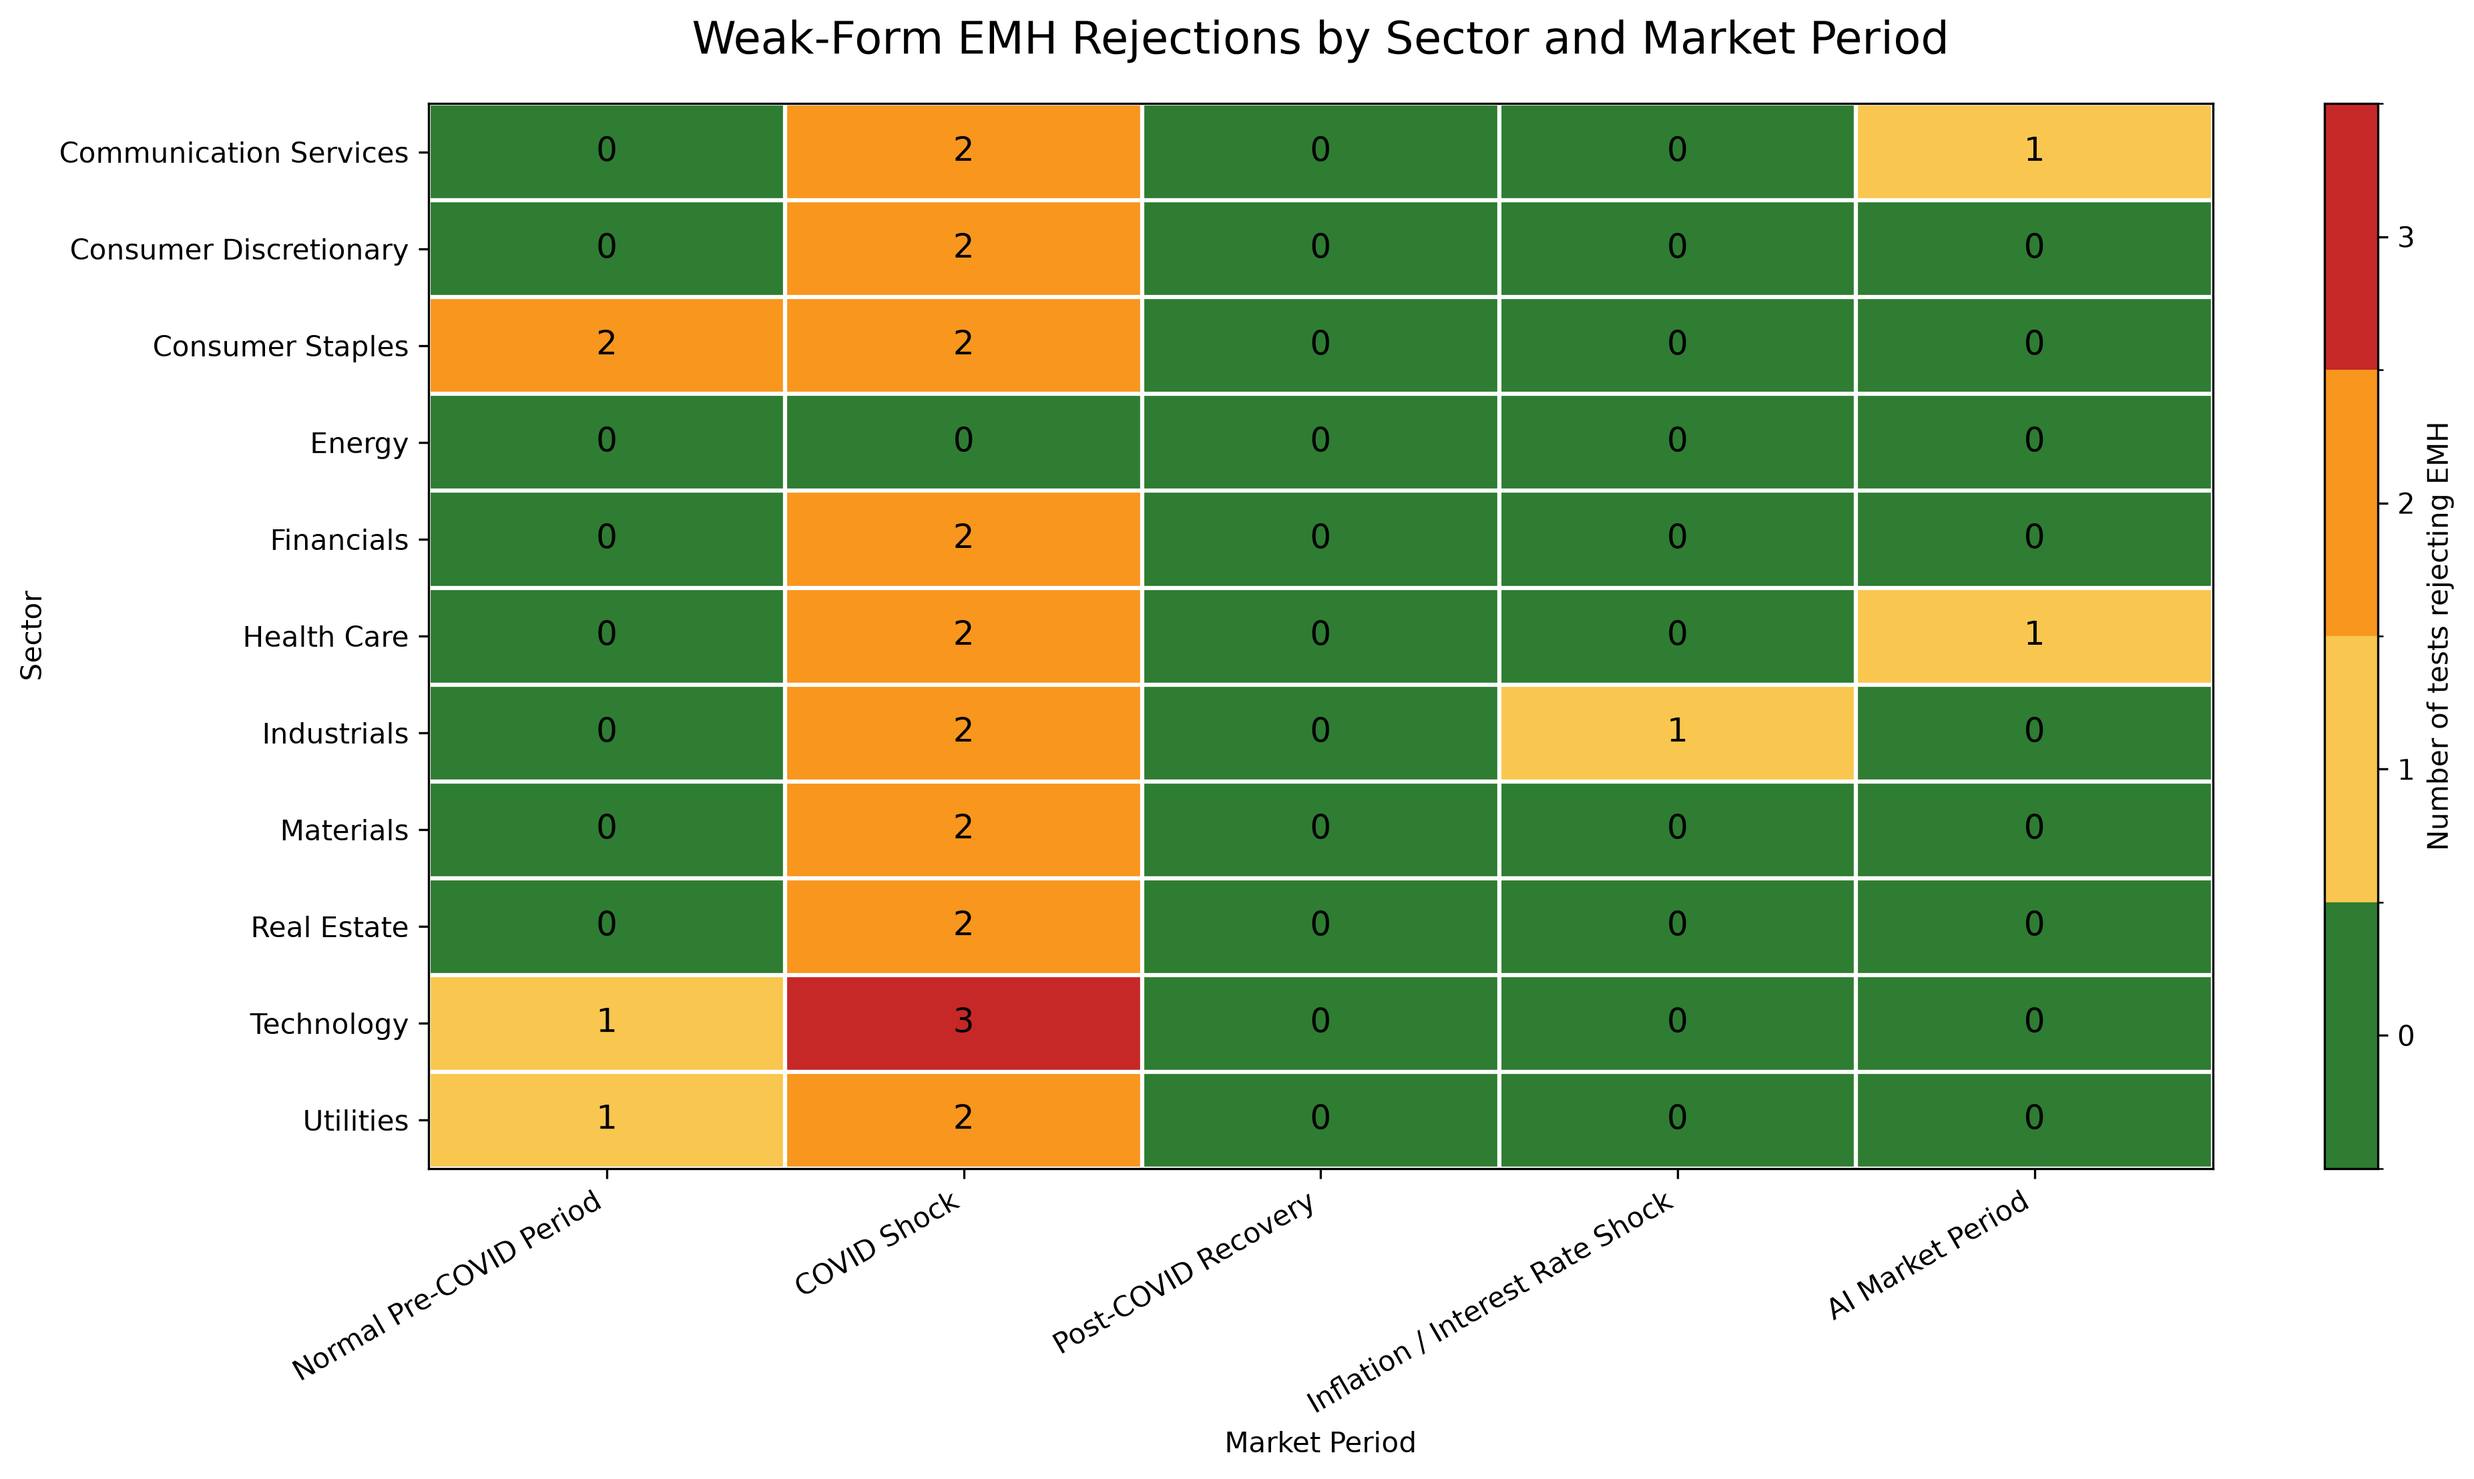
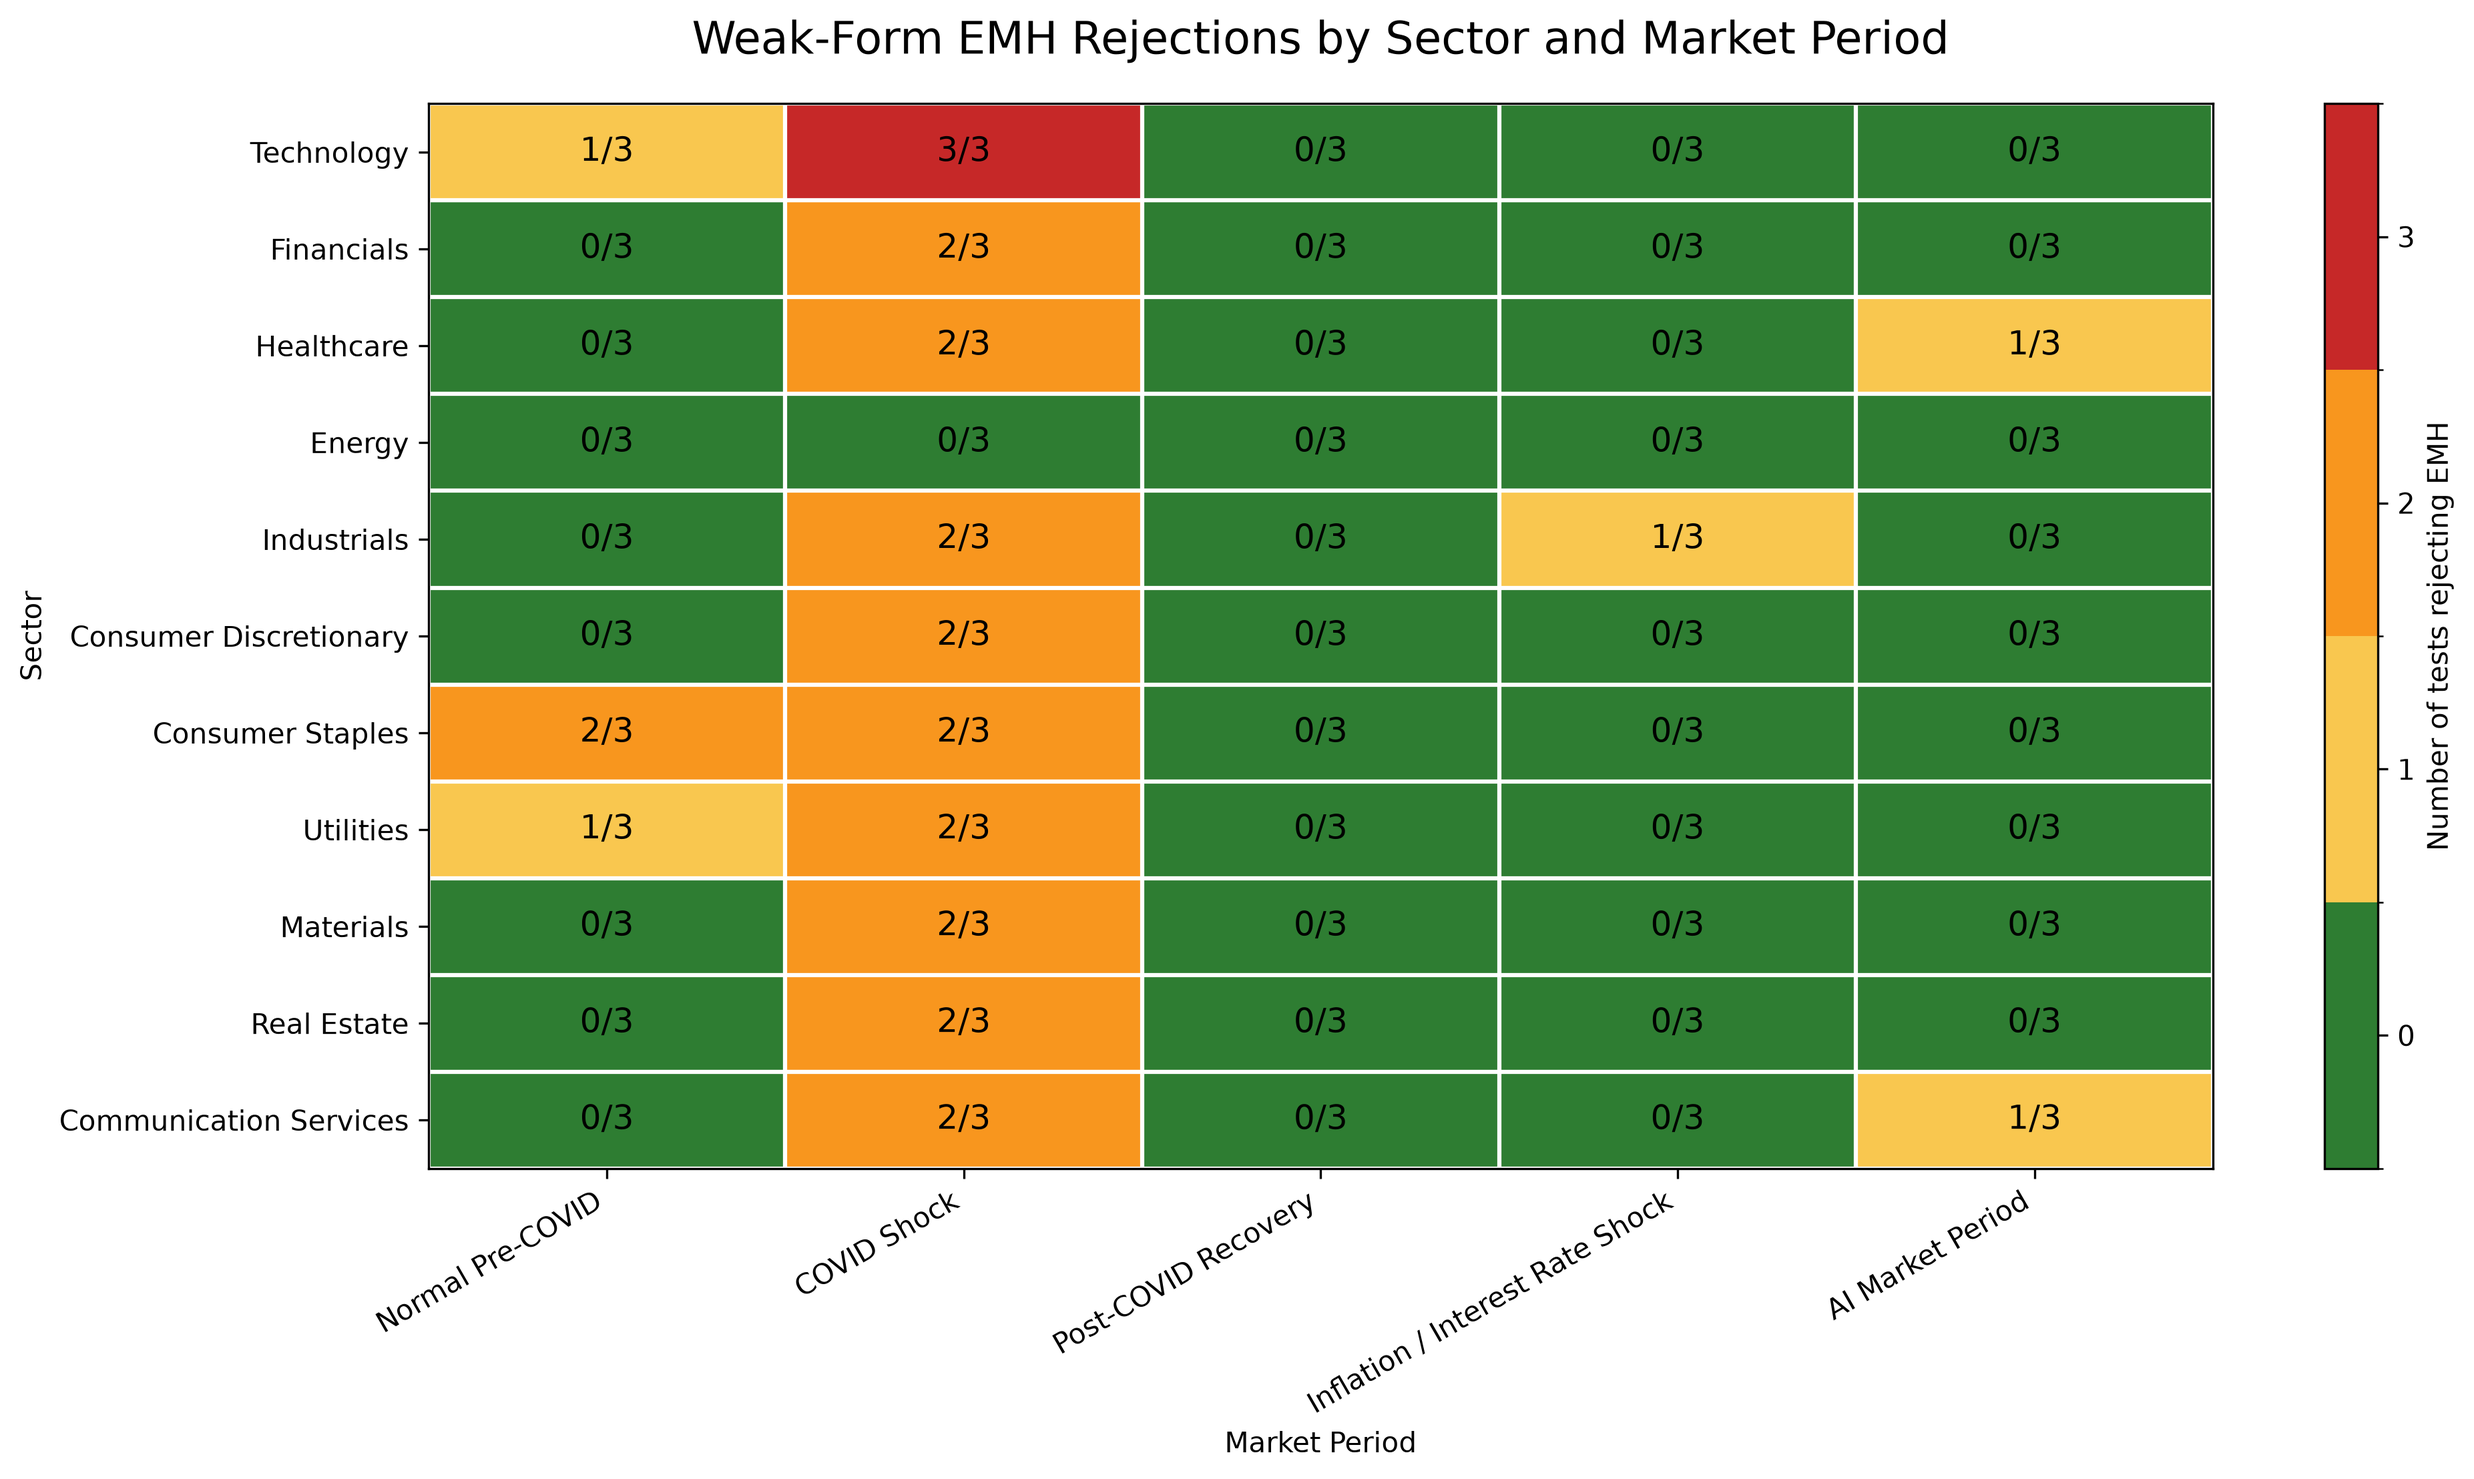
Add generated sector EMH outputs [skip ci]

diff --git a/outputs/sector_emh_detailed_results.md b/outputs/sector_emh_detailed_results.md
@@ -1,57 +1,57 @@
 | Sector | ETF | Market Period | Variance Ratio Result | Autocorrelation Result | Runs Test Result | Number of Tests Rejecting EMH |
 | --- | --- | --- | --- | --- | --- | --- |
-| Communication Services | XLC | Normal Pre-COVID Period | Fails to Reject EMH | Fails to Reject EMH | Fails to Reject EMH | 0 |
-| Communication Services | XLC | COVID Shock | Rejects EMH | Rejects EMH | Fails to Reject EMH | 2 |
-| Communication Services | XLC | Post-COVID Recovery | Fails to Reject EMH | Fails to Reject EMH | Fails to Reject EMH | 0 |
-| Communication Services | XLC | Inflation / Interest Rate Shock | Fails to Reject EMH | Fails to Reject EMH | Fails to Reject EMH | 0 |
-| Communication Services | XLC | AI Market Period | Rejects EMH | Fails to Reject EMH | Fails to Reject EMH | 1 |
-| Consumer Discretionary | XLY | Normal Pre-COVID Period | Fails to Reject EMH | Fails to Reject EMH | Fails to Reject EMH | 0 |
-| Consumer Discretionary | XLY | COVID Shock | Rejects EMH | Rejects EMH | Fails to Reject EMH | 2 |
-| Consumer Discretionary | XLY | Post-COVID Recovery | Fails to Reject EMH | Fails to Reject EMH | Fails to Reject EMH | 0 |
-| Consumer Discretionary | XLY | Inflation / Interest Rate Shock | Fails to Reject EMH | Fails to Reject EMH | Fails to Reject EMH | 0 |
-| Consumer Discretionary | XLY | AI Market Period | Fails to Reject EMH | Fails to Reject EMH | Fails to Reject EMH | 0 |
-| Consumer Staples | XLP | Normal Pre-COVID Period | Rejects EMH | Rejects EMH | Fails to Reject EMH | 2 |
-| Consumer Staples | XLP | COVID Shock | Rejects EMH | Rejects EMH | Fails to Reject EMH | 2 |
-| Consumer Staples | XLP | Post-COVID Recovery | Fails to Reject EMH | Fails to Reject EMH | Fails to Reject EMH | 0 |
-| Consumer Staples | XLP | Inflation / Interest Rate Shock | Fails to Reject EMH | Fails to Reject EMH | Fails to Reject EMH | 0 |
-| Consumer Staples | XLP | AI Market Period | Fails to Reject EMH | Fails to Reject EMH | Fails to Reject EMH | 0 |
-| Energy | XLE | Normal Pre-COVID Period | Fails to Reject EMH | Fails to Reject EMH | Fails to Reject EMH | 0 |
-| Energy | XLE | COVID Shock | Fails to Reject EMH | Fails to Reject EMH | Fails to Reject EMH | 0 |
-| Energy | XLE | Post-COVID Recovery | Fails to Reject EMH | Fails to Reject EMH | Fails to Reject EMH | 0 |
-| Energy | XLE | Inflation / Interest Rate Shock | Fails to Reject EMH | Fails to Reject EMH | Fails to Reject EMH | 0 |
-| Energy | XLE | AI Market Period | Fails to Reject EMH | Fails to Reject EMH | Fails to Reject EMH | 0 |
-| Financials | XLF | Normal Pre-COVID Period | Fails to Reject EMH | Fails to Reject EMH | Fails to Reject EMH | 0 |
-| Financials | XLF | COVID Shock | Rejects EMH | Rejects EMH | Fails to Reject EMH | 2 |
-| Financials | XLF | Post-COVID Recovery | Fails to Reject EMH | Fails to Reject EMH | Fails to Reject EMH | 0 |
-| Financials | XLF | Inflation / Interest Rate Shock | Fails to Reject EMH | Fails to Reject EMH | Fails to Reject EMH | 0 |
-| Financials | XLF | AI Market Period | Fails to Reject EMH | Fails to Reject EMH | Fails to Reject EMH | 0 |
-| Health Care | XLV | Normal Pre-COVID Period | Fails to Reject EMH | Fails to Reject EMH | Fails to Reject EMH | 0 |
-| Health Care | XLV | COVID Shock | Rejects EMH | Rejects EMH | Fails to Reject EMH | 2 |
-| Health Care | XLV | Post-COVID Recovery | Fails to Reject EMH | Fails to Reject EMH | Fails to Reject EMH | 0 |
-| Health Care | XLV | Inflation / Interest Rate Shock | Fails to Reject EMH | Fails to Reject EMH | Fails to Reject EMH | 0 |
-| Health Care | XLV | AI Market Period | Fails to Reject EMH | Fails to Reject EMH | Rejects EMH | 1 |
-| Industrials | XLI | Normal Pre-COVID Period | Fails to Reject EMH | Fails to Reject EMH | Fails to Reject EMH | 0 |
-| Industrials | XLI | COVID Shock | Rejects EMH | Rejects EMH | Fails to Reject EMH | 2 |
-| Industrials | XLI | Post-COVID Recovery | Fails to Reject EMH | Fails to Reject EMH | Fails to Reject EMH | 0 |
-| Industrials | XLI | Inflation / Interest Rate Shock | Fails to Reject EMH | Fails to Reject EMH | Rejects EMH | 1 |
-| Industrials | XLI | AI Market Period | Fails to Reject EMH | Fails to Reject EMH | Fails to Reject EMH | 0 |
-| Materials | XLB | Normal Pre-COVID Period | Fails to Reject EMH | Fails to Reject EMH | Fails to Reject EMH | 0 |
-| Materials | XLB | COVID Shock | Rejects EMH | Rejects EMH | Fails to Reject EMH | 2 |
-| Materials | XLB | Post-COVID Recovery | Fails to Reject EMH | Fails to Reject EMH | Fails to Reject EMH | 0 |
-| Materials | XLB | Inflation / Interest Rate Shock | Fails to Reject EMH | Fails to Reject EMH | Fails to Reject EMH | 0 |
-| Materials | XLB | AI Market Period | Fails to Reject EMH | Fails to Reject EMH | Fails to Reject EMH | 0 |
-| Real Estate | XLRE | Normal Pre-COVID Period | Fails to Reject EMH | Fails to Reject EMH | Fails to Reject EMH | 0 |
-| Real Estate | XLRE | COVID Shock | Rejects EMH | Rejects EMH | Fails to Reject EMH | 2 |
-| Real Estate | XLRE | Post-COVID Recovery | Fails to Reject EMH | Fails to Reject EMH | Fails to Reject EMH | 0 |
-| Real Estate | XLRE | Inflation / Interest Rate Shock | Fails to Reject EMH | Fails to Reject EMH | Fails to Reject EMH | 0 |
-| Real Estate | XLRE | AI Market Period | Fails to Reject EMH | Fails to Reject EMH | Fails to Reject EMH | 0 |
-| Technology | XLK | Normal Pre-COVID Period | Rejects EMH | Fails to Reject EMH | Fails to Reject EMH | 1 |
+| Technology | XLK | Normal Pre-COVID | Rejects EMH | Fails to Reject EMH | Fails to Reject EMH | 1 |
 | Technology | XLK | COVID Shock | Rejects EMH | Rejects EMH | Rejects EMH | 3 |
 | Technology | XLK | Post-COVID Recovery | Fails to Reject EMH | Fails to Reject EMH | Fails to Reject EMH | 0 |
 | Technology | XLK | Inflation / Interest Rate Shock | Fails to Reject EMH | Fails to Reject EMH | Fails to Reject EMH | 0 |
 | Technology | XLK | AI Market Period | Fails to Reject EMH | Fails to Reject EMH | Fails to Reject EMH | 0 |
-| Utilities | XLU | Normal Pre-COVID Period | Rejects EMH | Fails to Reject EMH | Fails to Reject EMH | 1 |
+| Financials | XLF | Normal Pre-COVID | Fails to Reject EMH | Fails to Reject EMH | Fails to Reject EMH | 0 |
+| Financials | XLF | COVID Shock | Rejects EMH | Rejects EMH | Fails to Reject EMH | 2 |
+| Financials | XLF | Post-COVID Recovery | Fails to Reject EMH | Fails to Reject EMH | Fails to Reject EMH | 0 |
+| Financials | XLF | Inflation / Interest Rate Shock | Fails to Reject EMH | Fails to Reject EMH | Fails to Reject EMH | 0 |
+| Financials | XLF | AI Market Period | Fails to Reject EMH | Fails to Reject EMH | Fails to Reject EMH | 0 |
+| Healthcare | XLV | Normal Pre-COVID | Fails to Reject EMH | Fails to Reject EMH | Fails to Reject EMH | 0 |
+| Healthcare | XLV | COVID Shock | Rejects EMH | Rejects EMH | Fails to Reject EMH | 2 |
+| Healthcare | XLV | Post-COVID Recovery | Fails to Reject EMH | Fails to Reject EMH | Fails to Reject EMH | 0 |
+| Healthcare | XLV | Inflation / Interest Rate Shock | Fails to Reject EMH | Fails to Reject EMH | Fails to Reject EMH | 0 |
+| Healthcare | XLV | AI Market Period | Fails to Reject EMH | Fails to Reject EMH | Rejects EMH | 1 |
+| Energy | XLE | Normal Pre-COVID | Fails to Reject EMH | Fails to Reject EMH | Fails to Reject EMH | 0 |
+| Energy | XLE | COVID Shock | Fails to Reject EMH | Fails to Reject EMH | Fails to Reject EMH | 0 |
+| Energy | XLE | Post-COVID Recovery | Fails to Reject EMH | Fails to Reject EMH | Fails to Reject EMH | 0 |
+| Energy | XLE | Inflation / Interest Rate Shock | Fails to Reject EMH | Fails to Reject EMH | Fails to Reject EMH | 0 |
+| Energy | XLE | AI Market Period | Fails to Reject EMH | Fails to Reject EMH | Fails to Reject EMH | 0 |
+| Industrials | XLI | Normal Pre-COVID | Fails to Reject EMH | Fails to Reject EMH | Fails to Reject EMH | 0 |
+| Industrials | XLI | COVID Shock | Rejects EMH | Rejects EMH | Fails to Reject EMH | 2 |
+| Industrials | XLI | Post-COVID Recovery | Fails to Reject EMH | Fails to Reject EMH | Fails to Reject EMH | 0 |
+| Industrials | XLI | Inflation / Interest Rate Shock | Fails to Reject EMH | Fails to Reject EMH | Rejects EMH | 1 |
+| Industrials | XLI | AI Market Period | Fails to Reject EMH | Fails to Reject EMH | Fails to Reject EMH | 0 |
+| Consumer Discretionary | XLY | Normal Pre-COVID | Fails to Reject EMH | Fails to Reject EMH | Fails to Reject EMH | 0 |
+| Consumer Discretionary | XLY | COVID Shock | Rejects EMH | Rejects EMH | Fails to Reject EMH | 2 |
+| Consumer Discretionary | XLY | Post-COVID Recovery | Fails to Reject EMH | Fails to Reject EMH | Fails to Reject EMH | 0 |
+| Consumer Discretionary | XLY | Inflation / Interest Rate Shock | Fails to Reject EMH | Fails to Reject EMH | Fails to Reject EMH | 0 |
+| Consumer Discretionary | XLY | AI Market Period | Fails to Reject EMH | Fails to Reject EMH | Fails to Reject EMH | 0 |
+| Consumer Staples | XLP | Normal Pre-COVID | Rejects EMH | Rejects EMH | Fails to Reject EMH | 2 |
+| Consumer Staples | XLP | COVID Shock | Rejects EMH | Rejects EMH | Fails to Reject EMH | 2 |
+| Consumer Staples | XLP | Post-COVID Recovery | Fails to Reject EMH | Fails to Reject EMH | Fails to Reject EMH | 0 |
+| Consumer Staples | XLP | Inflation / Interest Rate Shock | Fails to Reject EMH | Fails to Reject EMH | Fails to Reject EMH | 0 |
+| Consumer Staples | XLP | AI Market Period | Fails to Reject EMH | Fails to Reject EMH | Fails to Reject EMH | 0 |
+| Utilities | XLU | Normal Pre-COVID | Rejects EMH | Fails to Reject EMH | Fails to Reject EMH | 1 |
 | Utilities | XLU | COVID Shock | Rejects EMH | Rejects EMH | Fails to Reject EMH | 2 |
 | Utilities | XLU | Post-COVID Recovery | Fails to Reject EMH | Fails to Reject EMH | Fails to Reject EMH | 0 |
 | Utilities | XLU | Inflation / Interest Rate Shock | Fails to Reject EMH | Fails to Reject EMH | Fails to Reject EMH | 0 |
 | Utilities | XLU | AI Market Period | Fails to Reject EMH | Fails to Reject EMH | Fails to Reject EMH | 0 |
+| Materials | XLB | Normal Pre-COVID | Fails to Reject EMH | Fails to Reject EMH | Fails to Reject EMH | 0 |
+| Materials | XLB | COVID Shock | Rejects EMH | Rejects EMH | Fails to Reject EMH | 2 |
+| Materials | XLB | Post-COVID Recovery | Fails to Reject EMH | Fails to Reject EMH | Fails to Reject EMH | 0 |
+| Materials | XLB | Inflation / Interest Rate Shock | Fails to Reject EMH | Fails to Reject EMH | Fails to Reject EMH | 0 |
+| Materials | XLB | AI Market Period | Fails to Reject EMH | Fails to Reject EMH | Fails to Reject EMH | 0 |
+| Real Estate | XLRE | Normal Pre-COVID | Fails to Reject EMH | Fails to Reject EMH | Fails to Reject EMH | 0 |
+| Real Estate | XLRE | COVID Shock | Rejects EMH | Rejects EMH | Fails to Reject EMH | 2 |
+| Real Estate | XLRE | Post-COVID Recovery | Fails to Reject EMH | Fails to Reject EMH | Fails to Reject EMH | 0 |
+| Real Estate | XLRE | Inflation / Interest Rate Shock | Fails to Reject EMH | Fails to Reject EMH | Fails to Reject EMH | 0 |
+| Real Estate | XLRE | AI Market Period | Fails to Reject EMH | Fails to Reject EMH | Fails to Reject EMH | 0 |
+| Communication Services | XLC | Normal Pre-COVID | Fails to Reject EMH | Fails to Reject EMH | Fails to Reject EMH | 0 |
+| Communication Services | XLC | COVID Shock | Rejects EMH | Rejects EMH | Fails to Reject EMH | 2 |
+| Communication Services | XLC | Post-COVID Recovery | Fails to Reject EMH | Fails to Reject EMH | Fails to Reject EMH | 0 |
+| Communication Services | XLC | Inflation / Interest Rate Shock | Fails to Reject EMH | Fails to Reject EMH | Fails to Reject EMH | 0 |
+| Communication Services | XLC | AI Market Period | Rejects EMH | Fails to Reject EMH | Fails to Reject EMH | 1 |
